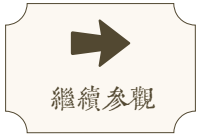
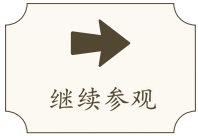
fix(pages): 更新探索入场交互与导航按钮字形
- 同步第二至第五页的分类说明牌显示及入场焦点时机，接入共用探索按钮模块。

- 更新首页、继续参观、点击探索和帮助按钮的图片资源。

Changed region(s): [[0.2424, 0.6176, 0.7879, 0.8235]]

diff --git a/js/page3.js b/js/page3.js
@@ -1,4 +1,5 @@
 import { createScenePanorama } from "./panorama.js?v=exhibit-drag";
+import { bindExploreButton } from "./explore.js";
 
 const exhibit = document.querySelector(".procession");
 const enterButton = document.querySelector("#enter-procession");
@@ -25,6 +26,7 @@ const choices = {
     ["bride", "新娘"], ["dowry-attendant", "送妆娘"], ["sedan-bearer", "抬轿夫"], ["maid", "侍女"],
   ],
 };
+let galleryReady;
 
 function showStep(name) {
   for (const step of steps) {
@@ -79,21 +81,20 @@ for (const group of groups) {
   });
 }
 
-enterButton.addEventListener("click", async () => {
+enterButton.addEventListener("click", () => {
   sceneImage.src = "assets/images/page-3/procession-gallery.jpeg";
   sceneImage.alt = "红色长廊连着映出迎亲队伍的金色长卷，参观者在展厅前驻足。";
+  galleryReady = sceneImage.decode().then(() => true, () => false);
   exhibit.dataset.mode = "explore";
   panorama.start();
   processionTitle.focus({ preventScroll: true });
-
-  const [gallery] = await Promise.allSettled([
-    sceneImage.decode(),
-    ...lastDescription.getAnimations().map(animation => animation.finished),
-  ]);
-  bridgeHand.hidden = gallery.status !== "fulfilled";
 });
 
-document.querySelector("#procession-explore").addEventListener("click", () => scrollTitle.focus());
+bindExploreButton(document.querySelector("#procession-explore"), scrollTitle, async () => {
+  await Promise.allSettled(lastDescription.getAnimations().map(animation => animation.finished));
+  bridgeHand.hidden = !await galleryReady;
+});
+
 helpButton.addEventListener("click", () => {
   helpPanel.hidden = !helpPanel.hidden;
   helpButton.setAttribute("aria-expanded", String(!helpPanel.hidden));

diff --git a/js/page5.js b/js/page5.js
@@ -1,4 +1,5 @@
 import { createScenePanorama } from "./panorama.js?v=exhibit-drag";
+import { bindExploreButton } from "./explore.js";
 
 const exhibit = document.querySelector(".wishes");
 const enterButton = document.querySelector("#enter-wishes");
@@ -41,17 +42,11 @@ const homePreviewImage = dialog.querySelector(".wish-home-preview__image");
 const reducedMotion = window.matchMedia("(prefers-reduced-motion: reduce)");
 let homePreviewAnimation;
 
-async function showExhibit() {
+function showExhibit() {
   sceneImage.src = "assets/images/page-5/wishes-gallery.webp";
   sceneImage.alt = "灯笼和烛光映照着夜色中的展厅，远处亮起山间灯火。";
   exhibit.dataset.mode = "explore";
   panorama.start();
-
-  await Promise.allSettled([
-    sceneImage.decode(),
-    ...interactionCard.getAnimations().map(animation => animation.finished),
-  ]);
-  hand.hidden = false;
 }
 
 function showWish(option) {
@@ -94,7 +89,13 @@ if (history.state?.exhibitMode === "explore") {
   showExhibit();
 }
 
-exploreButton.addEventListener("click", () => lightsTitle.focus());
+bindExploreButton(exploreButton, lightsTitle, async () => {
+  await Promise.allSettled([
+    sceneImage.decode(),
+    ...interactionCard.getAnimations().map(animation => animation.finished),
+  ]);
+  hand.hidden = false;
+});
 helpButton.addEventListener("click", () => {
   helpPanel.hidden = !helpPanel.hidden;
   helpButton.setAttribute("aria-expanded", String(!helpPanel.hidden));

diff --git a/page3.html b/page3.html
@@ -7,7 +7,7 @@
   <link rel="icon" href="assets/images/scroll.png" type="image/png">
   <link rel="stylesheet" href="css/style.css?v=exhibit-drag">
   <link rel="preload" as="image" href="assets/images/page-3/procession-gallery.jpeg" fetchpriority="low">
-  <script type="module" src="js/page3.js?v=exhibit-drag"></script>
+  <script type="module" src="js/page3.js?v=explore-reveal"></script>
 </head>
 <body>
   <main class="exhibit procession" data-mode="cover" aria-label="十里红妆">
@@ -33,7 +33,7 @@
         <img src="assets/images/catalog-hand.png" width="64" height="64" alt="" draggable="false">
       </button>
 
-      <ul class="catalog__categories exploration-only" role="list">
+      <ul class="catalog__categories exploration-only" id="procession-categories" role="list" hidden>
         <li style="--category-x: 86.05%; --category-y: 19.64%">
           <div class="catalog-card">
             <h2 class="catalog-card__name" id="scroll-title" tabindex="-1">动态长卷</h2>
@@ -53,7 +53,7 @@
       <a class="plaque" href="index.html">
         <img src="assets/images/ppt-home.png" alt="首页">
       </a>
-      <button class="plaque" type="button" id="procession-explore">
+      <button class="plaque" type="button" id="procession-explore" aria-controls="procession-categories" aria-expanded="false">
         <img src="assets/images/ppt-explore.png" alt="点击探索">
       </button>
       <a class="plaque" href="page4.html">

diff --git a/page5.html b/page5.html
@@ -7,7 +7,7 @@
   <link rel="icon" href="assets/images/scroll.png" type="image/png">
   <link rel="stylesheet" href="css/style.css?v=exhibit-drag">
   <link rel="preload" as="image" href="assets/images/page-5/wishes-gallery.webp" fetchpriority="low">
-  <script type="module" src="js/page5.js?v=exhibit-drag"></script>
+  <script type="module" src="js/page5.js?v=explore-reveal"></script>
 </head>
 <body>
   <main class="exhibit wishes" data-mode="cover" aria-label="十里红妆">
@@ -28,7 +28,7 @@
         </h1>
       </header>
 
-      <ul class="catalog__categories exploration-only" role="list">
+      <ul class="catalog__categories exploration-only" id="wishes-categories" role="list" hidden>
         <li style="--category-x: 81.72%; --category-y: 16.12%">
           <div class="catalog-card">
             <h2 class="catalog-card__name" id="lights-title" tabindex="-1">点亮万家</h2>
@@ -50,7 +50,7 @@
       <a class="plaque" href="index.html">
         <img src="assets/images/ppt-home.png" alt="首页">
       </a>
-      <button class="plaque" type="button" id="wishes-explore">
+      <button class="plaque" type="button" id="wishes-explore" aria-controls="wishes-categories" aria-expanded="false">
         <img src="assets/images/ppt-explore.png" alt="点击探索">
       </button>
       <a class="plaque" href="page4.html?mode=explore">

diff --git a/js/page4.js b/js/page4.js
@@ -1,4 +1,5 @@
 import { createScenePanorama } from "./panorama.js?v=exhibit-drag";
+import { bindExploreButton } from "./explore.js";
 
 const exhibit = document.querySelector(".homemaking");
 const enterButton = document.querySelector("#enter-homemaking");
@@ -176,15 +177,9 @@ stage.addEventListener("keydown", event => {
   positionItem(event.target, item.x + direction[0] * step, item.y + direction[1] * step);
 });
 
-async function showExhibit() {
+function showExhibit() {
   exhibit.dataset.mode = "explore";
   panorama.start();
-
-  await Promise.allSettled([
-    sceneImage.decode(),
-    ...interactionCard.getAnimations().map(animation => animation.finished),
-  ]);
-  hand.hidden = false;
 }
 
 enterButton.addEventListener("click", () => {
@@ -197,7 +192,13 @@ if (history.state?.exhibitMode === "explore" || new URLSearchParams(location.sea
   showExhibit();
 }
 
-exploreButton.addEventListener("click", () => groomingTitle.focus());
+bindExploreButton(exploreButton, groomingTitle, async () => {
+  await Promise.allSettled([
+    sceneImage.decode(),
+    ...interactionCard.getAnimations().map(animation => animation.finished),
+  ]);
+  hand.hidden = false;
+});
 helpButton.addEventListener("click", () => {
   helpPanel.hidden = !helpPanel.hidden;
   helpButton.setAttribute("aria-expanded", String(!helpPanel.hidden));

diff --git a/page2.html b/page2.html
@@ -7,7 +7,7 @@
   <link rel="icon" href="assets/images/scroll.png" type="image/png">
   <link rel="stylesheet" href="css/style.css?v=exhibit-drag">
   <link rel="preload" as="image" href="assets/images/page-2/catalog-gallery.jpeg" fetchpriority="low">
-  <script type="module" src="js/page2.js?v=exhibit-drag"></script>
+  <script type="module" src="js/page2.js?v=explore-reveal"></script>
 </head>
 <body>
   <main class="exhibit catalog" data-mode="cover" aria-label="十里红妆">
@@ -28,7 +28,7 @@
         </h1>
       </header>
 
-      <ul class="catalog__categories exploration-only" role="list">
+      <ul class="catalog__categories exploration-only" id="catalog-categories" role="list" hidden>
         <li style="--category-x: 20.76%; --category-y: 31.68%">
           <div class="catalog-card">
             <h2 class="catalog-card__name">收纳之具</h2>
@@ -68,7 +68,7 @@
       <a class="plaque" href="index.html">
         <img src="assets/images/ppt-home.png" alt="首页">
       </a>
-      <button class="plaque" type="button" id="catalog-explore">
+      <button class="plaque" type="button" id="catalog-explore" aria-controls="catalog-categories" aria-expanded="false">
         <img src="assets/images/ppt-explore.png" alt="点击探索">
       </button>
       <a class="plaque" href="page3.html">

diff --git a/page4.html b/page4.html
@@ -6,7 +6,7 @@
   <title>十里红妆 · 百物成家</title>
   <link rel="icon" href="assets/images/scroll.png" type="image/png">
   <link rel="stylesheet" href="css/style.css?v=exhibit-drag">
-  <script type="module" src="js/page4.js?v=exhibit-drag"></script>
+  <script type="module" src="js/page4.js?v=explore-reveal"></script>
 </head>
 <body>
   <main class="exhibit homemaking" data-mode="cover" aria-label="十里红妆">
@@ -27,7 +27,7 @@
         </h1>
       </header>
 
-      <ul class="catalog__categories exploration-only" role="list">
+      <ul class="catalog__categories exploration-only" id="homemaking-categories" role="list" hidden>
         <li style="--category-x: 10.45%; --category-y: 32.10%">
           <div class="catalog-card">
             <h2 class="catalog-card__name" id="grooming-title" tabindex="-1">理妆</h2>
@@ -49,7 +49,7 @@
       <a class="plaque" href="index.html">
         <img src="assets/images/ppt-home.png" alt="首页">
       </a>
-      <button class="plaque" type="button" id="homemaking-explore">
+      <button class="plaque" type="button" id="homemaking-explore" aria-controls="homemaking-categories" aria-expanded="false">
         <img src="assets/images/ppt-explore.png" alt="点击探索">
       </button>
       <a class="plaque" href="page5.html">

diff --git a/js/explore.js b/js/explore.js
@@ -1,0 +1,17 @@
+export function bindExploreButton(button, focusTarget, onReveal) {
+  const categories = document.getElementById(button.getAttribute("aria-controls"));
+  const focusCard = focusTarget.closest("li");
+
+  button.addEventListener("click", async () => {
+    if (categories.hidden) {
+      categories.hidden = false;
+      button.setAttribute("aria-expanded", "true");
+      onReveal?.();
+    }
+
+    const activeElement = document.activeElement;
+    // 等待说明牌入场，避免把焦点移到动画延迟期间隐藏的内容上。
+    await Promise.allSettled(focusCard.getAnimations().map(animation => animation.finished));
+    if (document.activeElement === activeElement) focusTarget.focus();
+  });
+}

diff --git a/js/page2.js b/js/page2.js
@@ -1,4 +1,5 @@
 import { createScenePanorama } from "./panorama.js?v=exhibit-drag";
+import { bindExploreButton } from "./explore.js";
 
 const exhibit = document.querySelector(".catalog");
 const enterButton = document.querySelector("#enter-catalog");
@@ -125,7 +126,7 @@ atlas.addEventListener("close", () => {
   opener.focus({ preventScroll: true });
 });
 
-document.querySelector("#catalog-explore").addEventListener("click", () => opener.focus());
+bindExploreButton(document.querySelector("#catalog-explore"), opener);
 helpButton.addEventListener("click", () => {
   helpPanel.hidden = !helpPanel.hidden;
   helpButton.setAttribute("aria-expanded", String(!helpPanel.hidden));
